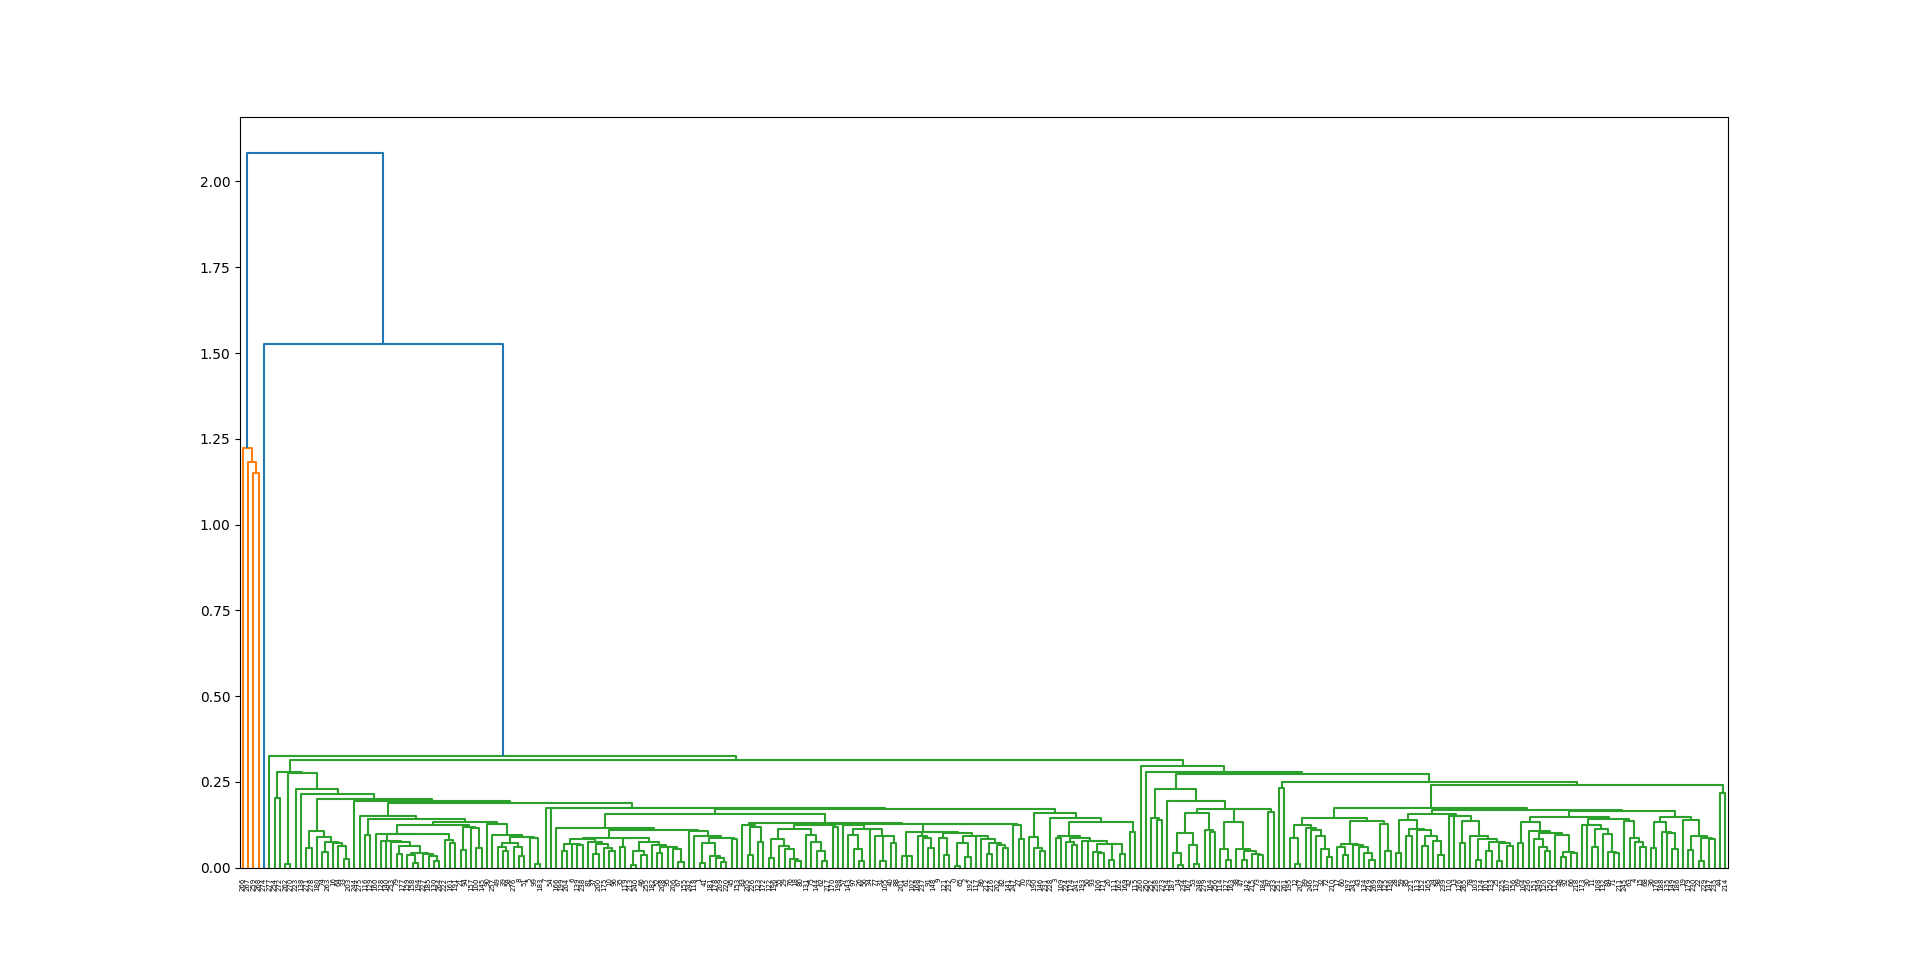
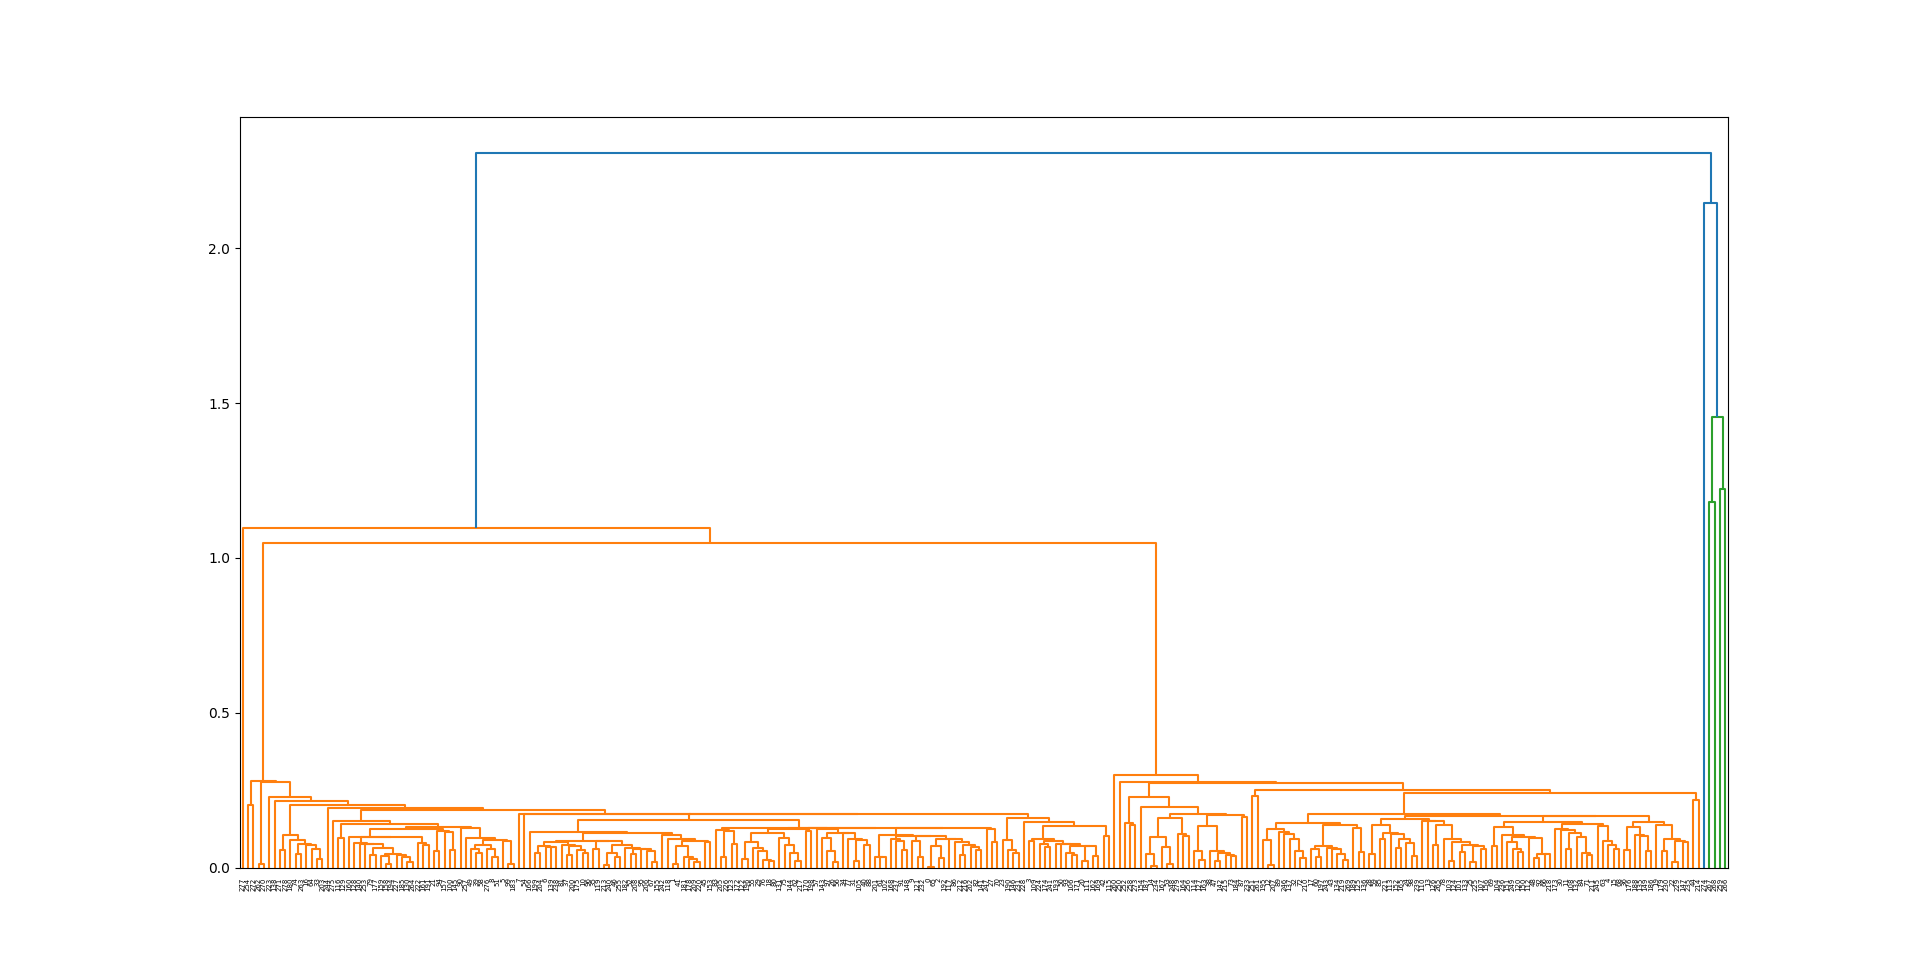
lb2: done

Changed region(s): [[0.0938, 0.4615, 0.9062, 0.9231]]

diff --git a/Машинное обучение/LB2/LB2.py b/Машинное обучение/LB2/LB2.py
@@ -8,16 +8,15 @@ from sklearn.metrics import silhouette_score
 from sklearn.neighbors import NearestNeighbors
 from scipy.spatial import Voronoi, voronoi_plot_2d
 from scipy.cluster.hierarchy import dendrogram, linkage
+from sklearn.decomposition import PCA
 
 # Вариант 134Б 
 
 # ЗАДАНИЕ 1 ---------------------------------------------------------
 
-# dFrameBlobs = pd.read_csv("data\lab2_blobs.csv")
-# dFrameChecker = pd.read_csv("data\lab2_checker.csv")
-# dFrameMoons = pd.read_csv("data\lab2_noisymoons.csv")
-
-# print(dFrameBlobs.describe())
+dFrameBlobs = pd.read_csv("data\lab2_blobs.csv")
+dFrameChecker = pd.read_csv("data\lab2_checker.csv")
+dFrameMoons = pd.read_csv("data\lab2_noisymoons.csv")
 
 # print(dFrameBlobs.head())
 # print(dFrameChecker.head())
@@ -30,17 +29,16 @@ from scipy.cluster.hierarchy import dendrogram, linkage
 # sns.scatterplot(dFrameMoons, ax = axs[2], x = "# x", y = "y").set(title="Moons") 
 
 # scaler = MinMaxScaler()
-# scaler = StandardScaler()
+scaler = StandardScaler()
 
+scaler.fit(dFrameBlobs) 
+dFrameBlobsScale = scaler.transform(dFrameBlobs)
 
-# scaler.fit(dFrameBlobs) 
-# dFrameBlobsScale = scaler.transform(dFrameBlobs)
+scaler.fit(dFrameChecker) 
+dFrameCheckerScale = scaler.transform(dFrameChecker)
 
-# scaler.fit(dFrameChecker) 
-# dFrameCheckerScale = scaler.transform(dFrameChecker)
-
-# scaler.fit(dFrameMoons) 
-# dFrameMoonsScale = scaler.transform(dFrameMoons)
+scaler.fit(dFrameMoons) 
+dFrameMoonsScale = scaler.transform(dFrameMoons)
 
 # sns.scatterplot(pd.DataFrame(dFrameBlobsScale, columns=["# x", "y"]), ax = axs[0], x = "# x", y = "y").set(title="Blobs")
 # sns.scatterplot(pd.DataFrame(dFrameCheckerScale, columns=["# x", "y"]), ax = axs[1], x = "# x", y = "y").set(title="Checker")
@@ -49,9 +47,9 @@ from scipy.cluster.hierarchy import dendrogram, linkage
 # plt.show()
 
 
-## ЗАДАНИЕ 2 ---------------------------------------------------------
+# ЗАДАНИЕ 2 ---------------------------------------------------------
 
-## Задание 2.1 ----------------
+# Задание 2.1 ----------------
 
 # def ElbowMethod(dataFrame, frameTitle, axIdx):
 #     inertias = {}
@@ -68,7 +66,7 @@ from scipy.cluster.hierarchy import dendrogram, linkage
 # ElbowMethod(dFrameCheckerScale, "Checker", 1) ### 5-7
 # ElbowMethod(dFrameMoonsScale, "Moons", 2) ### 10-14
 
-## Задание 2.2 ----------------
+# Задание 2.2 ----------------
 
 # def SilhouetteMethod(dataFrame, frameTitle, axIdx):
 #     silhouettes = {}
@@ -84,7 +82,7 @@ from scipy.cluster.hierarchy import dendrogram, linkage
 # SilhouetteMethod(dFrameCheckerScale, "Checker", 1) ## 5
 # SilhouetteMethod(dFrameMoonsScale, "Moons", 2) ## 10
 
-## Задание 2.3 ----------------
+# Задание 2.3 ----------------
 
 # kmeansBlobs = KMeans(n_clusters = 5, 
 # 			 init = 'random',
@@ -92,9 +90,9 @@ from scipy.cluster.hierarchy import dendrogram, linkage
 
 # clustIndexBlobs = kmeansBlobs.fit_predict(dFrameBlobsScale)
 # centersBlobs = kmeansBlobs.cluster_centers_
-# print("clust_index Blobs: ", clustIndexBlobs)
-# print("censters Blobs: ", centersBlobs)
-# print("Blobs inetrion: ", kmeansBlobs.inertia_) 
+# print("clusterIdx Blobs: ", clustIndexBlobs)
+# print("clusterCensters Blobs: ", centersBlobs)
+# print("Inetrion Blobs: ", kmeansBlobs.inertia_)
 
 
 # kmeansChecker = KMeans(n_clusters = 5, 
@@ -103,9 +101,9 @@ from scipy.cluster.hierarchy import dendrogram, linkage
 
 # clustIndexChecker = kmeansChecker.fit_predict(dFrameCheckerScale)
 # centersChecker = kmeansChecker.cluster_centers_
-# print("clust_index Checker: ", clustIndexChecker)
-# print("censters Checker: ", centersChecker)
-# print("Checker inetrion: ", kmeansChecker.inertia_) 
+# print("clusterIdx Checker: ", clustIndexChecker)
+# print("clusterCensters Checker: ", centersChecker)
+# print("Inetrion Checker: ", kmeansChecker.inertia_)
 
 
 # kmeansMoons = KMeans(n_clusters = 10, 
@@ -114,12 +112,13 @@ from scipy.cluster.hierarchy import dendrogram, linkage
 
 # clustIndexMoons = kmeansMoons.fit_predict(dFrameMoonsScale)
 # centersMoons = kmeansMoons.cluster_centers_
-# print("clust_index Moons: ", clustIndexMoons)
-# print("censters Moons: ", centersMoons)
-# print("Moons inetrion: ", kmeansMoons.inertia_) 
+# print("clusterIdx Moons: ", clustIndexMoons)
+# print("clusterCensters Moons: ", centersMoons)
+# print("Inetrion Moons: ", kmeansMoons.inertia_)
+
 
  
-## Задание 2.4 ----------------
+# Задание 2.4 ----------------
 
 # dFrameBlobsKmeans = pd.DataFrame(dFrameBlobsScale, columns=["# x", "y"]).assign(cluster=clustIndexBlobs)
 # dFrameCheckerKmeans = pd.DataFrame(dFrameCheckerScale, columns=["# x", "y"]).assign(cluster=clustIndexChecker)
@@ -132,7 +131,7 @@ from scipy.cluster.hierarchy import dendrogram, linkage
 # plt.show()
 
 
-## Задание 2.5 ----------------
+# Задание 2.5 ----------------
 
 # vor = Voronoi(centersBlobs)
 # figa = voronoi_plot_2d(vor, ax=axs[0], show_points = False)
@@ -151,7 +150,7 @@ from scipy.cluster.hierarchy import dendrogram, linkage
 # sns.scatterplot(pd.DataFrame(centersMoons, columns=["# x", "y"]), ax = axs[2], x = "# x", y = "y", marker = "x", color = "black", s = 150)
 
 
-## Задание 2.6 ----------------
+# Задание 2.6 ----------------
 
 # boxFig, boxAxs = plt.subplots(1, 2)
 
@@ -167,7 +166,7 @@ from scipy.cluster.hierarchy import dendrogram, linkage
 # plt.show()
 
 
-## Задание 2.7 ----------------
+# Задание 2.7 ----------------
 
 # def describe27(dFrame): 
 #     clusters = dFrame["cluster"].unique()
@@ -184,11 +183,21 @@ from scipy.cluster.hierarchy import dendrogram, linkage
         
 #         resultX["std #" + str(clusterIdx)] = clustersPoints["# x"].std()
 #         resultY["std #" + str(clusterIdx)] = clustersPoints["y"].std()
+
 #         resultX["min #" + str(clusterIdx)] = clustersPoints["# x"].min()
 #         resultY["min #" + str(clusterIdx)] = clustersPoints["y"].min()
         
 #         resultX["max #" + str(clusterIdx)] = clustersPoints["# x"].max()
 #         resultY["max #" + str(clusterIdx)] = clustersPoints["y"].max()
+
+#         resultX["50% #" + str(clusterIdx)] = clustersPoints["# x"].quantile(0.5)
+#         resultY["50% #" + str(clusterIdx)] = clustersPoints["y"].quantile(0.5)
+
+#         resultX["25% #" + str(clusterIdx)] = clustersPoints["# x"].quantile(0.25)
+#         resultY["25% #" + str(clusterIdx)] = clustersPoints["y"].quantile(0.25)
+
+#         resultX["75% #" + str(clusterIdx)] = clustersPoints["# x"].quantile(0.75)
+#         resultY["75% #" + str(clusterIdx)] = clustersPoints["y"].quantile(0.75)
         
 #     return resultX, resultY
     
@@ -196,11 +205,63 @@ from scipy.cluster.hierarchy import dendrogram, linkage
 # descrCheckerX, descrCheckerY = describe27(dFrameCheckerKmeans)
 # descrMoonsX, descrMoonsY = describe27(dFrameMoonsKmeans)
 
-# print(descrCheckerY)
+
+# def descrPrint(describe, title):
+#     for idx in range(int(len(describe)/8)):
+#         addArr = {}
+#         addArr["std"] = describe[f'std #{idx}']
+#         addArr["mean"] = describe[f'mean #{idx}']
+#         addArr["count"] = describe[f'count #{idx}']
+#         print(title, f' cluster #{idx}: ', addArr)
+
+# descrPrint(descrBlobsX, "descrBlobsX")
+# descrPrint(descrBlobsY, "descrBlobsY")
+
+# descrPrint(descrCheckerX, "descrCheckerX")
+# descrPrint(descrCheckerY, "descrCheckerY")
+
+# descrPrint(descrMoonsX, "descrMoonsX")
+# descrPrint(descrMoonsY, "descrMoonsY")
+
+# colors = {
+#     0: "red",
+#     1: "blue",
+#     2: "green",
+#     3: "purple",
+#     4: "orange",
+#     5: "yellow",
+#     6: "brown", 
+#     7: "pink",
+#     8: "grey",
+#     9: "red"
+# }
+
+# def graphDescribe(describe, axIdx):
+#     for idx in range(int(len(describe)/8)):
+#         addArr = []
+#         addArr.append(describe[f'min #{idx}'])
+#         addArr.append(describe[f'max #{idx}'])
+#         addArr.append(describe[f'50% #{idx}'])
+#         addArr.append(describe[f'25% #{idx}'])
+#         addArr.append(describe[f'75% #{idx}'])
+
+#         pdAddArr = pd.DataFrame(addArr, columns=["# x"]).assign(y = [idx]*len(addArr))
+        
+#         sns.scatterplot(pdAddArr, x = "# x", y = "y", ax = boxAxs[axIdx], marker = "x", color = colors[idx], s = 100)
+
+# graphDescribe(descrBlobsX, 0)
+# graphDescribe(descrBlobsY, 1)
+
+# graphDescribe(descrCheckerX, 0)
+# graphDescribe(descrCheckerY, 1)
+
+# graphDescribe(descrMoonsX, 0)
+# graphDescribe(descrMoonsY, 1)
+        
+# plt.show()
 
 
-
-## ЗАДАНИЕ 3 ---------------------------------------------------------
+# ЗАДАНИЕ 3 ---------------------------------------------------------
 
 # def kDistanceGraph(dFrame, dFrameTitle, axIdx):
 #     neigh = NearestNeighbors(n_neighbors = 2)
@@ -210,9 +271,9 @@ from scipy.cluster.hierarchy import dendrogram, linkage
 #     sns.lineplot(distances, ax=axs[axIdx]).set(title=dFrameTitle, ylabel = "Epsilon", xlabel = "Points sorted by distance to neighboor")
     
 
-# kDistanceGraph(dFrameBlobsScale, "Blobs", 0) # 0.09 - 0.15
-# kDistanceGraph(dFrameCheckerScale, "Checker", 1) # 0.10
-# kDistanceGraph(dFrameMoonsScale, "Moons", 2) # 0.15 
+# kDistanceGraph(dFrameBlobsScale, "Blobs", 0) # 0.09 - 0.16
+# kDistanceGraph(dFrameCheckerScale, "Checker", 1) # 0.10 - 0.16
+# kDistanceGraph(dFrameMoonsScale, "Moons", 2) # 0.15 - 0.23
 
 # dbs = DBSCAN(eps=0.15, min_samples=5)
 # clustersBlobs = dbs.fit_predict(dFrameBlobsScale)
@@ -224,7 +285,7 @@ from scipy.cluster.hierarchy import dendrogram, linkage
 # dFrameCheckerKmeans = pd.DataFrame(dFrameCheckerScale, columns=["# x", "y"]).assign(cluster=clustersChecker)
 # sns.scatterplot(dFrameCheckerKmeans, ax = axs[1], x = "# x", y = "y", hue="cluster", palette="Set1").set(title="Checker")
 
-# dbs = DBSCAN(eps=0.20, min_samples=5)
+# dbs = DBSCAN(eps=0.28, min_samples=8)
 # clustersMoons = dbs.fit_predict(dFrameMoonsScale)
 # dFrameMoonsKmeans = pd.DataFrame(dFrameMoonsScale, columns=["# x", "y"]).assign(cluster=clustersMoons)
 # sns.scatterplot(dFrameMoonsKmeans, ax = axs[2], x = "# x", y = "y", hue="cluster", palette="Set1").set(title="Moons")
@@ -232,27 +293,27 @@ from scipy.cluster.hierarchy import dendrogram, linkage
 # plt.show()
 
 
-## ЗАДАНИЕ 4 ---------------------------------------------------------
+# ЗАДАНИЕ 4 ---------------------------------------------------------
 
 # axs[0].set(title="Blobs")
 # axs[1].set(title="Checker")
 # axs[2].set(title="Moons")
 
-# _linkage = "average"
+# _linkage = "single" # "ward", "complete", "single"
 
 # agc = AgglomerativeClustering(5, linkage = _linkage)
 # ag_clust = agc.fit_predict(dFrameBlobsScale)
 # dFrameBlobsAgc = pd.DataFrame(dFrameBlobsScale, columns=["# x", "y"]).assign(cluster=ag_clust)
-# dendrogram(linkage(dFrameBlobsAgc, method=_linkage), ax = axs[0])
+# # dendrogram(linkage(dFrameBlobsAgc, method=_linkage), ax = axs[0])
 # sns.scatterplot(dFrameBlobsAgc, ax = axs[0], x = "# x", y = "y", hue="cluster", palette="Set1").set(title="Blobs")
 
-# agc = AgglomerativeClustering(5, linkage = _linkage)
+# agc = AgglomerativeClustering(4, linkage = _linkage)
 # ag_clust = agc.fit_predict(dFrameCheckerScale)
 # dFrameCheckerAgc = pd.DataFrame(dFrameCheckerScale, columns=["# x", "y"]).assign(cluster=ag_clust)
-# dendrogram(linkage(dFrameCheckerAgc, method=_linkage), ax = axs[1])
+# # dendrogram(linkage(dFrameCheckerAgc, method=_linkage), ax = axs[1])
 # sns.scatterplot(dFrameCheckerAgc, ax = axs[1], x = "# x", y = "y", hue="cluster", palette="Set1").set(title="Checker")
 
-# agc = AgglomerativeClustering(7, linkage = _linkage)
+# agc = AgglomerativeClustering(8, linkage = _linkage)
 # ag_clust = agc.fit_predict(dFrameMoonsScale)
 # dFrameMoonsAgc = pd.DataFrame(dFrameMoonsScale, columns=["# x", "y"]).assign(cluster=ag_clust)
 # dendrogram(linkage(dFrameMoonsAgc, method=_linkage))
@@ -265,21 +326,52 @@ from scipy.cluster.hierarchy import dendrogram, linkage
 
 dFrameWine = pd.read_csv("data\lab2_winequality_white.csv", sep=";")
 
-# print(dFrameWine.head())
+print(dFrameWine.head())
 
 print(dFrameWine.describe())
-print(dFrameWine.columns.to_list())
 
-fig, axs = plt.subplots(4, 3, sharex='col')
+# sns.pairplot(dFrameWine, hue="quality", palette="Set1")
 
-axIdx = 0
-for column in dFrameWine.columns.to_list(): 
-    sns.histplot(dFrameWine, ax = axs[axIdx], bins=10, x = column, hue="quality", palette="Set1")
-    axIdx+=1
+scaler = MinMaxScaler()
+scaler.fit(dFrameWine) 
+dFrameWineScale = scaler.transform(dFrameWine)
 
-## 
+dFrameWineScale = pd.DataFrame(dFrameWineScale, columns=dFrameWine.columns.to_list())
+print(dFrameWineScale.describe())
 
-# print(dFrameWine.head()) 
+# sns.pairplot(dFrameWineScale, hue="quality", palette="Set1")
 
+# plt.show()
 
+pca = PCA(n_components=6)
+dFrameWinePCA = pca.fit_transform(dFrameWineScale)
+# sns.pairplot(pd.DataFrame(dFrameWinePCA))
 
+# plt.show()
+
+# def SilhouetteMethod(dataFrame, frameTitle):
+#     silhouettes = {}
+
+#     for countClusters in range(2,25):
+#         kmeanModel = KMeans(n_clusters=countClusters)
+        
+#         silhouettes[countClusters] = (silhouette_score(dataFrame, kmeanModel.fit_predict(dataFrame)))
+
+#     sns.lineplot(silhouettes, marker='o').set(title=frameTitle)
+
+# SilhouetteMethod(dFrameWinePCA, "Wine")
+# plt.show()
+
+kmeansBlobs = KMeans(n_clusters = 4, 
+			 init = 'random',
+			 n_init = 10)
+
+clustIndexBlobs = kmeansBlobs.fit_predict(dFrameWinePCA)
+centersBlobs = kmeansBlobs.cluster_centers_
+
+dFrameWineCluster = pd.DataFrame(dFrameWine).assign(cluster=clustIndexBlobs)
+
+# sns.pairplot(dFrameWineCluster,hue="cluster", palette="Set1")
+# plt.show()
+
+print(dFrameWineCluster.groupby('cluster').agg(['count', 'mean', 'std', 'min', 'max']))
